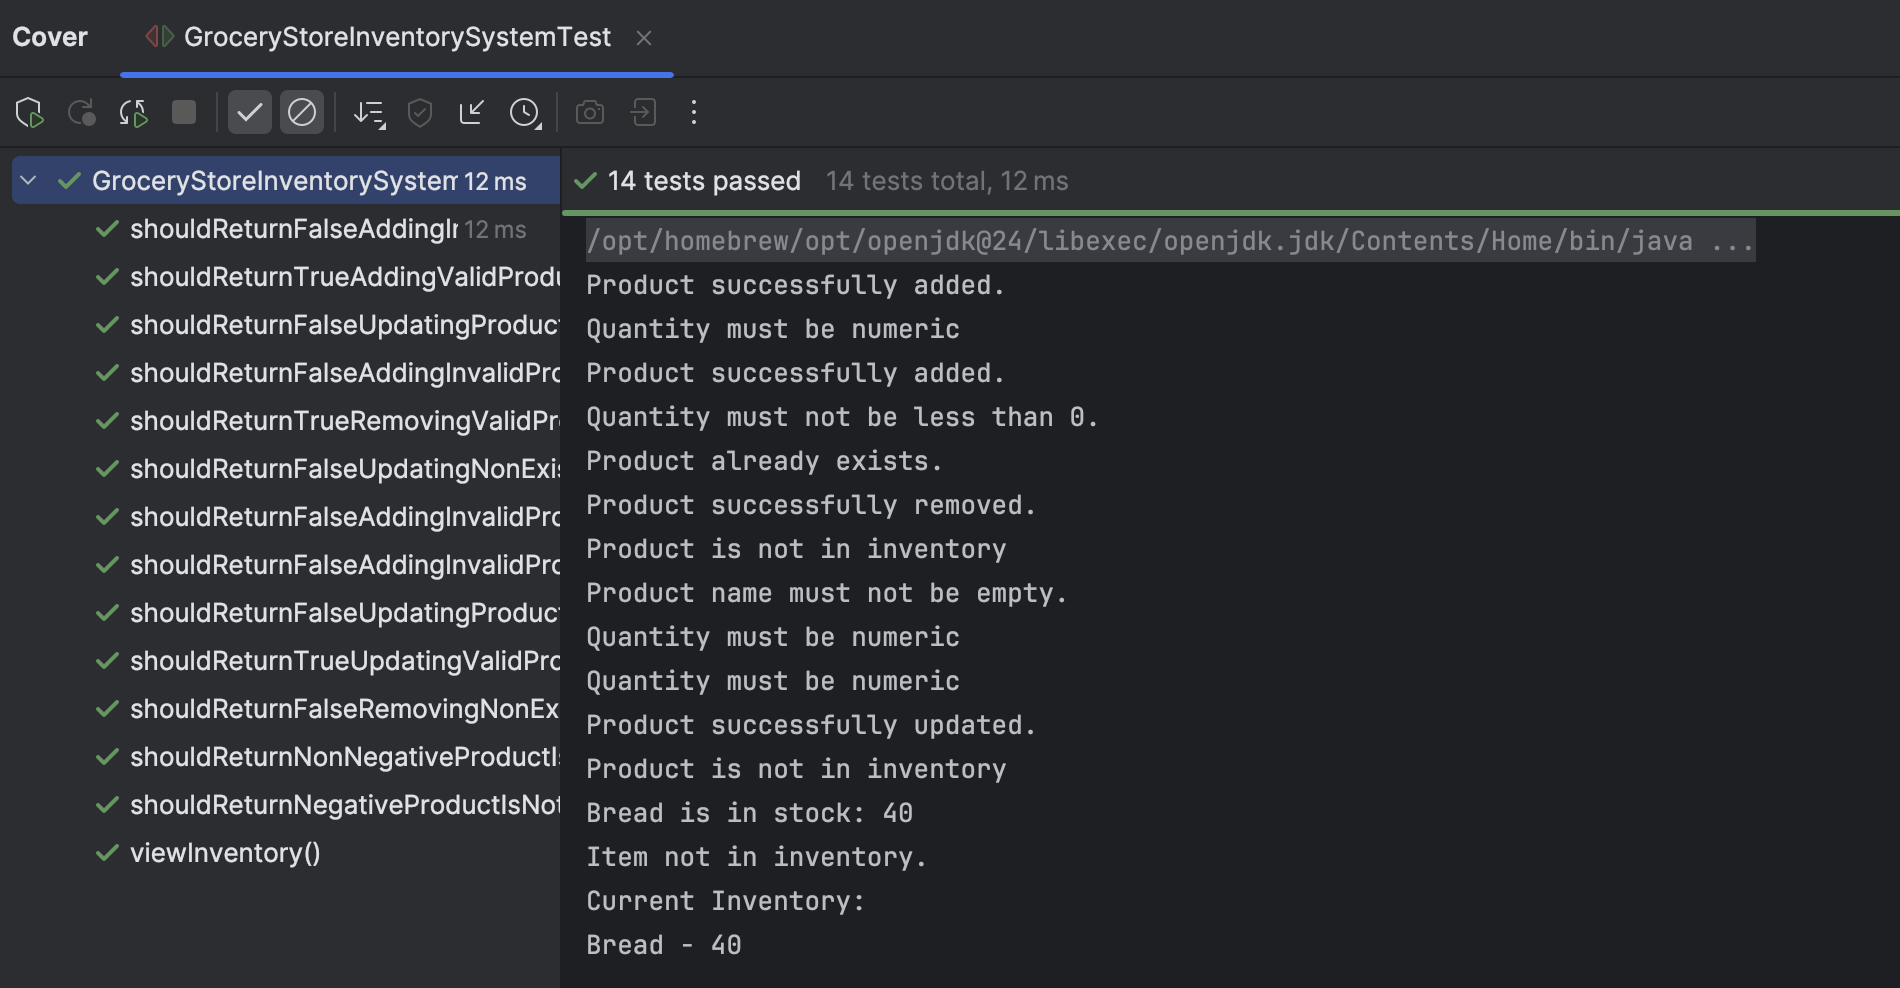
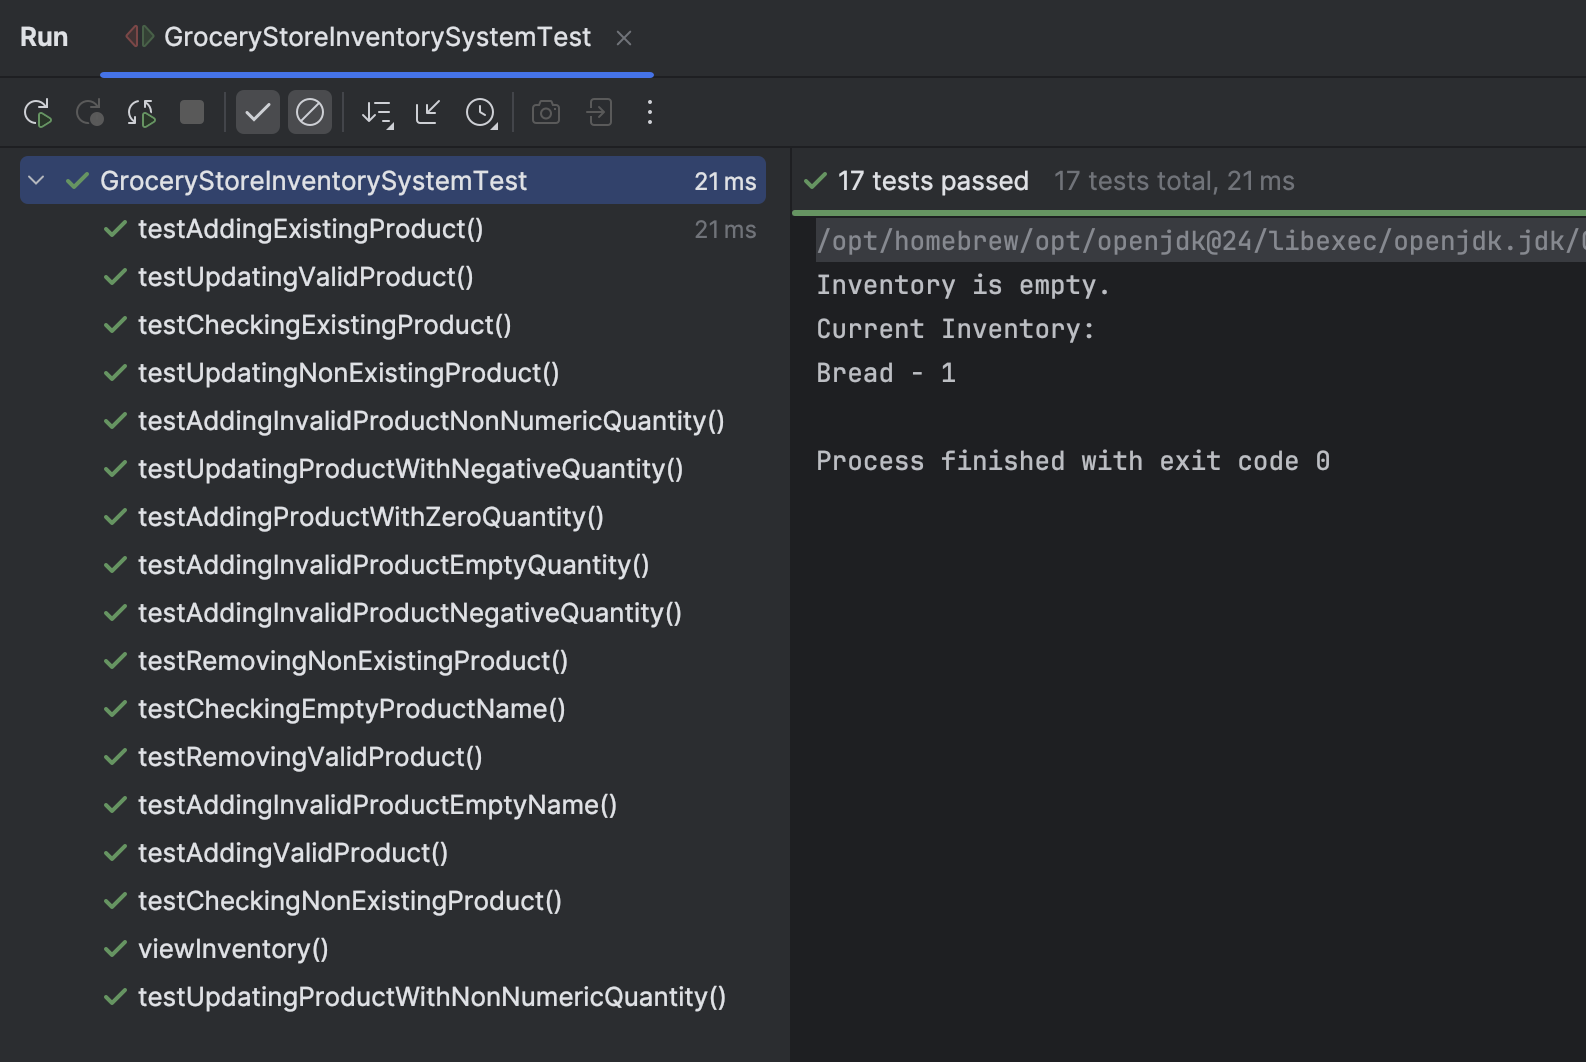
Final Submission, Unit Testing Grocery Inventory

Changed region(s): [[0.0, 0.0304, 1.0, 0.9717]]

diff --git a/src/test/java/GroceryStoreInventorySystemTest.java b/src/test/java/GroceryStoreInventorySystemTest.java
@@ -1,4 +1,4 @@
-import org.junit.jupiter.api.BeforeAll;
+import models.Status;
 import org.junit.jupiter.api.BeforeEach;
 import org.junit.jupiter.api.Test;
 import services.ProductService;
@@ -6,68 +6,106 @@ import services.ProductService;
 import static org.junit.jupiter.api.Assertions.*;
 
 class GroceryStoreInventorySystemTest {
-    @BeforeAll
-    static void setup(){
-        GroceryStoreInventorySystem.addProduct("Bread","5");
+    @BeforeEach
+    void setup(){
+        GroceryStoreInventorySystem.setProductService(new ProductService());
+
+
     }
+    // Unit testing for lab
     @Test
-    void shouldReturnTrueAddingValidProduct() {
-        assertTrue(GroceryStoreInventorySystem.addProduct("Cheese","10"));
-    }
-    @Test
-    void shouldReturnFalseAddingInvalidProductEmptyName() {
-        assertFalse(GroceryStoreInventorySystem.addProduct("","10"));
-    }
-    @Test
-    void shouldReturnFalseAddingInvalidProductEmptyQuantity() {
-        assertFalse(GroceryStoreInventorySystem.addProduct("Cheese",""));
-    }
-    @Test
-    void shouldReturnFalseAddingInvalidProductNegativeQuantity() {
-        assertFalse(GroceryStoreInventorySystem.addProduct("Cheese","-10"));
-    }
-    @Test
-    void shouldReturnFalseAddingInvalidProductNonNumericQuantity() {
-        assertFalse(GroceryStoreInventorySystem.addProduct("Cheese","ten"));
+    void testAddingValidProduct() {
+        assertEquals(Status.PRODUCT_ADDED.toString(), GroceryStoreInventorySystem.addProduct("Banana","30"));
     }
 
     @Test
-    void shouldReturnNonNegativeProductIsInStock() {
-        assertTrue(GroceryStoreInventorySystem.checkProduct("Bread") >= 0);
-    }
-    @Test
-    void shouldReturnNegativeProductIsNotInStock() {
-        assertEquals(-1,GroceryStoreInventorySystem.checkProduct("Pizza"));
+    void testAddingProductWithZeroQuantity(){
+        // The product should be added even with 0 quantity
+        assertEquals(Status.PRODUCT_ADDED.toString(), GroceryStoreInventorySystem.addProduct("Mango","0"));
     }
 
     @Test
-    void shouldReturnTrueUpdatingValidProduct() {
-        assertTrue(GroceryStoreInventorySystem.updateProduct("Bread", "40"));
-    }
-    @Test
-    void shouldReturnFalseUpdatingNonExistingProduct() {
-        assertFalse(GroceryStoreInventorySystem.updateProduct("Flour", "40"));
-    }
-    @Test
-    void shouldReturnFalseUpdatingProductWithNegativeQuantity() {
-        assertFalse(GroceryStoreInventorySystem.updateProduct("Cheese", "-40"));
-    }
-    @Test
-    void shouldReturnFalseUpdatingProductWithNonNumericQuantity() {
-        assertFalse(GroceryStoreInventorySystem.updateProduct("Cheese", "forty"));
+    void testAddingExistingProduct(){
+        // creates the first item on the inventory
+        GroceryStoreInventorySystem.addProduct("Milk","20");
+        assertEquals(Status.ADDING_EXISTING_PRODUCT.toString(), GroceryStoreInventorySystem.addProduct("Milk","50"));
+        assertEquals("Milk is in stock: 50",GroceryStoreInventorySystem.checkProduct("Milk"));
     }
 
     @Test
-    void shouldReturnTrueRemovingValidProduct() {
-        assertTrue(GroceryStoreInventorySystem.removeProduct("Cheese"));
+    void testCheckingExistingProduct(){
+        // creates the first item on the inventory
+        GroceryStoreInventorySystem.addProduct("Milk","20");
+        assertEquals("Milk is in stock: 20", GroceryStoreInventorySystem.checkProduct("Milk"));
+    }
+
+    @Test
+    void testCheckingNonExistingProduct(){
+        assertEquals(Status.PRODUCT_DOES_NOT_EXISTS.toString(), GroceryStoreInventorySystem.checkProduct("Ice Cream"));
+    }
+
+    @Test
+    void testUpdatingValidProduct() {
+        // creates the first item on the inventory
+        GroceryStoreInventorySystem.addProduct("Bread","10");
+        assertEquals(Status.PRODUCT_UPDATED.toString(), GroceryStoreInventorySystem.updateProduct("Bread", "25"));
+        assertEquals("Bread is in stock: 25", GroceryStoreInventorySystem.checkProduct("Bread"));
+    }
+
+    @Test
+    void testUpdatingNonExistingProduct() {
+        assertEquals(Status.PRODUCT_DOES_NOT_EXISTS.toString(), GroceryStoreInventorySystem.updateProduct("Tofu", "40"));
+    }
+
+    @Test
+    void testRemovingValidProduct() {
+        GroceryStoreInventorySystem.addProduct("Eggs","10");
+        assertEquals(Status.PRODUCT_REMOVED.toString(), GroceryStoreInventorySystem.removeProduct("Eggs"));
+    }
+
+    @Test
+    void testRemovingNonExistingProduct() {
+        assertEquals(Status.PRODUCT_DOES_NOT_EXISTS.toString(), GroceryStoreInventorySystem.removeProduct("Pizza"));
+    }
+
+    // Additional testing for coverage
+
+    @Test
+    void testAddingInvalidProductEmptyName() {
+        assertEquals(Status.PRODUCT_NAME_EMPTY.toString(), GroceryStoreInventorySystem.addProduct("","10"));
     }
     @Test
-    void shouldReturnFalseRemovingNonExistingProduct() {
-        assertFalse(GroceryStoreInventorySystem.removeProduct("Flour"));
+    void testAddingInvalidProductEmptyQuantity() {
+        assertEquals(Status.INVALID_QUANTITY.toString(), GroceryStoreInventorySystem.addProduct("Cheese",""));
+    }
+    @Test
+    void testAddingInvalidProductNegativeQuantity() {
+        assertEquals(Status.NEGATIVE_QUANTITY.toString(), GroceryStoreInventorySystem.addProduct("Cheese","-10"));
+    }
+    @Test
+    void testAddingInvalidProductNonNumericQuantity() {
+        assertEquals(Status.INVALID_QUANTITY.toString(), GroceryStoreInventorySystem.addProduct("Cheese","ten"));
+    }
+
+    @Test
+    void testUpdatingProductWithNegativeQuantity() {
+        GroceryStoreInventorySystem.addProduct("Cheese","10");
+        assertEquals(Status.NEGATIVE_QUANTITY.toString(), GroceryStoreInventorySystem.updateProduct("Cheese", "-40"));
+    }
+    @Test
+    void testUpdatingProductWithNonNumericQuantity() {
+        assertEquals(Status.INVALID_QUANTITY.toString(), GroceryStoreInventorySystem.updateProduct("Cheese", "forty"));
+    }
+
+    @Test
+    void testCheckingEmptyProductName(){
+        assertEquals("Product not found.", GroceryStoreInventorySystem.checkProduct(""));
     }
 
     @Test
     void viewInventory() {
+        assertEquals(0, GroceryStoreInventorySystem.viewInventory());
+        GroceryStoreInventorySystem.addProduct("Bread","1");
         assertEquals(1, GroceryStoreInventorySystem.viewInventory());
     }
 }

diff --git a/src/main/java/GroceryStoreInventorySystem.java b/src/main/java/GroceryStoreInventorySystem.java
@@ -6,10 +6,10 @@ import java.util.Map;
 import java.util.Scanner;
 
 public class GroceryStoreInventorySystem {
-    static HashMap<String, Integer> products = new HashMap<String, Integer>();
     static Scanner sc = new Scanner(System.in);
-    static ProductService productService = new ProductService();
+    static ProductService productService;
     public static void main(String[] args) {
+        setProductService(new ProductService());
         String selection;
         do{
             displayMenu();
@@ -25,14 +25,14 @@ public class GroceryStoreInventorySystem {
                     String name = sc.nextLine();
                     System.out.print("Enter quantity: ");
                     String quantity = sc.nextLine();
-                    addProduct(name, quantity);
+                    System.out.println(addProduct(name, quantity));
                     break;
                 }
                 case "3":{
                     // check
                     System.out.print("Enter product name: ");
                     String name = sc.nextLine();
-                    checkProduct(name);
+                    System.out.println(checkProduct(name));
                     break;
                 }
                 case "4":{
@@ -41,14 +41,14 @@ public class GroceryStoreInventorySystem {
                     String name = sc.nextLine();
                     System.out.print("Enter new stock quantity: ");
                     String quantity = sc.nextLine();
-                    updateProduct(name, quantity);
+                    System.out.println(updateProduct(name, quantity));
                     break;
                 }
                 case "5": {
                     //remove
                     System.out.print("Enter product to remove: ");
                     String name = sc.nextLine();
-                    removeProduct(name);
+                    System.out.println(removeProduct(name));
                     break;
                 }
                 case "6":
@@ -68,49 +68,45 @@ public class GroceryStoreInventorySystem {
         System.out.println("6. Exit");
         System.out.print("Choose an option: ");
     }
-    public static boolean addProduct(String name, String quantity){
+    public static String addProduct(String name, String quantity){
         int dQuantity = 0;
         Status result = null;
         try{
             dQuantity = Integer.parseInt(quantity);
             result = productService.addProduct(name, dQuantity);
-            System.out.println(result.getDescription());
-            return (result == Status.PRODUCT_ADDED);
+            return result.toString();
         }catch(NumberFormatException e){
             result = Status.INVALID_QUANTITY;
-            System.out.println(result.getDescription());
-            return false;
+            return result.toString();
         }
     }
-    public static int checkProduct(String name){
+    public static String checkProduct(String name){
         int quantity = productService.checkProduct(name);
+        String result;
         if(quantity == -1){
-            System.out.println("Item not in inventory.");
+            result = "Product not found.";
         }else if(quantity == 0){
-            System.out.println("Item does not have stock.");
+            result = "Product does not have stock.";
         }else{
-            System.out.println(name + " is in stock: " + quantity);
+            result = name + " is in stock: " + quantity;
         }
-        return quantity;
+        return result;
     }
-    public static boolean updateProduct(String name, String quantity){
+    public static String updateProduct(String name, String quantity){
         int dQuantity = 0;
         Status result = null;
         try{
             dQuantity = Integer.parseInt(quantity);
             result = productService.updateProduct(name, dQuantity);
-            System.out.println(result.getDescription());
-            return (result == Status.PRODUCT_UPDATED);
+            return result.toString();
         }catch(NumberFormatException e){
             result = Status.INVALID_QUANTITY;
-            System.out.println(result.getDescription());
-            return false;
+            return result.toString();
         }
     }
-    public static boolean removeProduct(String name){
+    public static String removeProduct(String name){
         Status result = productService.removeProduct(name);
-        System.out.println(result.getDescription());
-        return result == Status.PRODUCT_REMOVED;
+        return result.toString();
     }
     public static int viewInventory(){
         HashMap<String, Integer> products = productService.getProducts();
@@ -125,6 +121,7 @@ public class GroceryStoreInventorySystem {
         }
         return size;
     }
-
-
+    public static void setProductService(ProductService productService) {
+        GroceryStoreInventorySystem.productService = productService;
+    }
 }

diff --git a/src/main/java/models/Status.java b/src/main/java/models/Status.java
@@ -5,9 +5,9 @@ public enum Status{
     PRODUCT_UPDATED("Product successfully updated."),
     PRODUCT_REMOVED("Product successfully removed."),
     PRODUCT_NAME_EMPTY("Product name must not be empty."),
-    PRODUCT_EXISTS("Product already exists."),
-    PRODUCT_DOES_NOT_EXISTS("Product is not in inventory"),
-    INVALID_QUANTITY("Quantity must be numeric"),
+    ADDING_EXISTING_PRODUCT("Product already exists. Previous quantity overwritten."),
+    PRODUCT_DOES_NOT_EXISTS("Product not found."),
+    INVALID_QUANTITY("Quantity must be numeric."),
     NEGATIVE_QUANTITY("Quantity must not be less than 0.");
 
     private final String description;
@@ -16,12 +16,8 @@ public enum Status{
         this.description = description;
     }
 
-    public String getDescription(){
-        return description;
-    }
-
     @Override
     public String toString() {
-        return "INFO: " + description;
+        return description;
     }
 }

diff --git a/src/main/java/services/ProductService.java b/src/main/java/services/ProductService.java
@@ -10,10 +10,11 @@ public class ProductService {
         productName = productName.trim();
         if( productName.isEmpty()){
             return Status.PRODUCT_NAME_EMPTY;
-        }else if(products.containsKey(productName)){
-            return Status.PRODUCT_EXISTS;
         }else if(quantity<0){
             return Status.NEGATIVE_QUANTITY;
+        }else if(products.containsKey(productName)){
+            products.replace(productName, quantity);
+            return Status.ADDING_EXISTING_PRODUCT;
         }else{
             products.put(productName, quantity);
             return Status.PRODUCT_ADDED;

diff --git a/src/test/java/services/ProductServiceTest.java b/src/test/java/services/ProductServiceTest.java
@@ -19,7 +19,7 @@ class ProductServiceTest {
     }
     @Test
     void shouldReturnProductExistsAddingValidProduct() {
-        assertEquals(Status.PRODUCT_EXISTS, productService.addProduct("Bread",10));
+        assertEquals(Status.ADDING_EXISTING_PRODUCT, productService.addProduct("Bread",10));
     }
     @Test
     void shouldReturnNameEmptyAddingInvalidProductEmptyName() {

diff --git a/Readme.md b/Readme.md
@@ -14,8 +14,8 @@ FECP-Java-Session3-Grocery-Store
 
 ### Unit Testing Output
 **GroceryStoreInventorySystem class**
-![unit testing](./screenshots/testing-1.png)
-![unit testing](./screenshots/testing-2.png)
-**ProductService class**
-![unit testing](./screenshots/testing-3.png)
-![unit testing](./screenshots/testing-4.png)
+![main class unit testing](./screenshots/testing-1.png)
+![main class unit testing coverage](./screenshots/testing-2.png)
+**Additional testing for ProductService class**
+![ProductService unit testing](./screenshots/testing-3.png)
+![ProductService unit testing coverage](./screenshots/testing-4.png)
